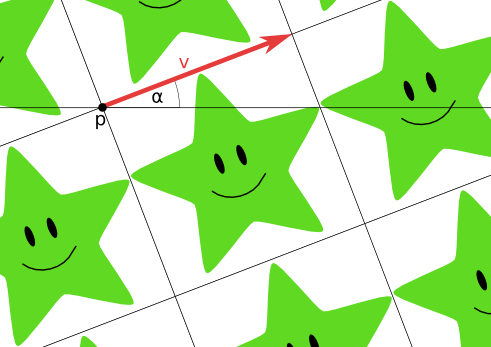
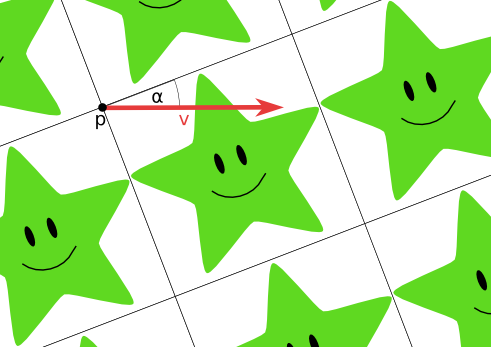
add documentation

Changed region(s): [[0.2138, 0.1729, 0.5804, 0.3746], [0.4582, 0.0865, 0.611, 0.1729]]

diff --git a/README.md b/README.md
@@ -1,4 +1,42 @@
 Time-shifting Zoom-Rotator
 ==========================
 
-xxx
+The normal zoom rotator is one of the classic demo effects. In shows a endlessly tiled image, zooming and rotating the image.
+
+Let's go to some theory for the basic zoom-rotator:
+
+We have an image which is usually square, with the size often being a power of 2. Each pixel in the image has a position x,y within the image's coordinate system / space where
+0,0 is usually the top/left corner and e.g. 511,511 the bottom/right corner. 
+
+Then we have our screen we draw in with its own, independently oriented coordinate system / space. 
+
+![Diagram for a simple zoom-rotator](https://github.com/fforw/jamrot/blob/master/image/zoomrot.png?raw=true)
+
+The rendering of a zoom rotator is determined by a point p determining where the point 0/0 in the coordinate system of the image is going to end up on the screen.
+
+Then we have a zoom-factor and an angle which is represented in the diagram as vector v, of which we are only interested in the length ( = zoom factor)
+and in the angle between v and the horizontal axis in the image coordinate system.
+
+The diagram greatly exaggerates the length of the vector. It's normal size is so that it fits one pixel in screen coordinate system.
+
+// Pseudo code for rendering a zoom rotator
+// px = x coordinate of p
+// py = y coordinate of p
+// zoom = zoom factor (e.g. 1 / image_width )
+// angle = angle in radians
+render(px,py,zoom,angle)
+    
+    // delta coordinates in image space for one step in screen space
+    dx = cos(angle) * zoom
+    dy = sin(angle) * zoom
+    
+    // calculate starting coordinates u/v in image space 
+    // if we take steps of dx/dy each, where do we need to 
+    // start so that we reach 0/0 in image space at the point px/py 
+    // in screen space
+    u = - px * dx 
+    v = - py * dy
+    
+    for y = 0 to screen_height - 1
+        for x = 0 to screen_width - 1
+        
